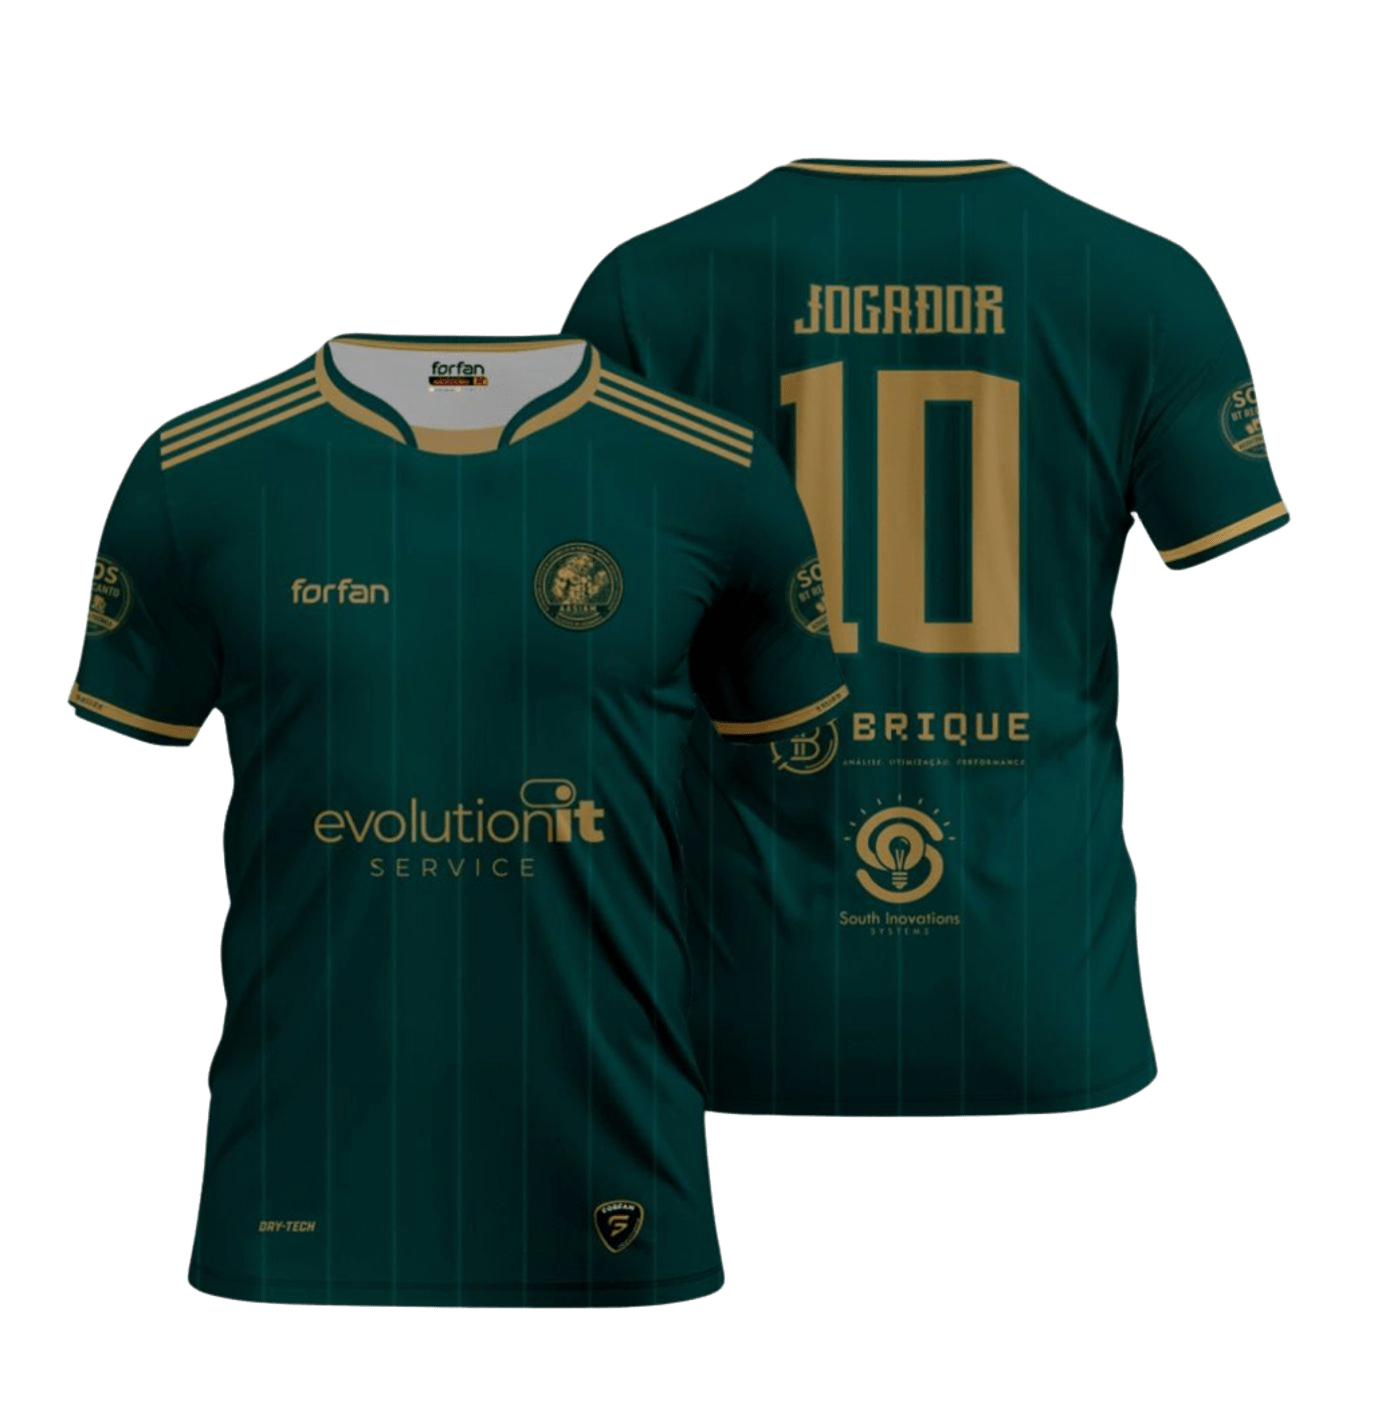
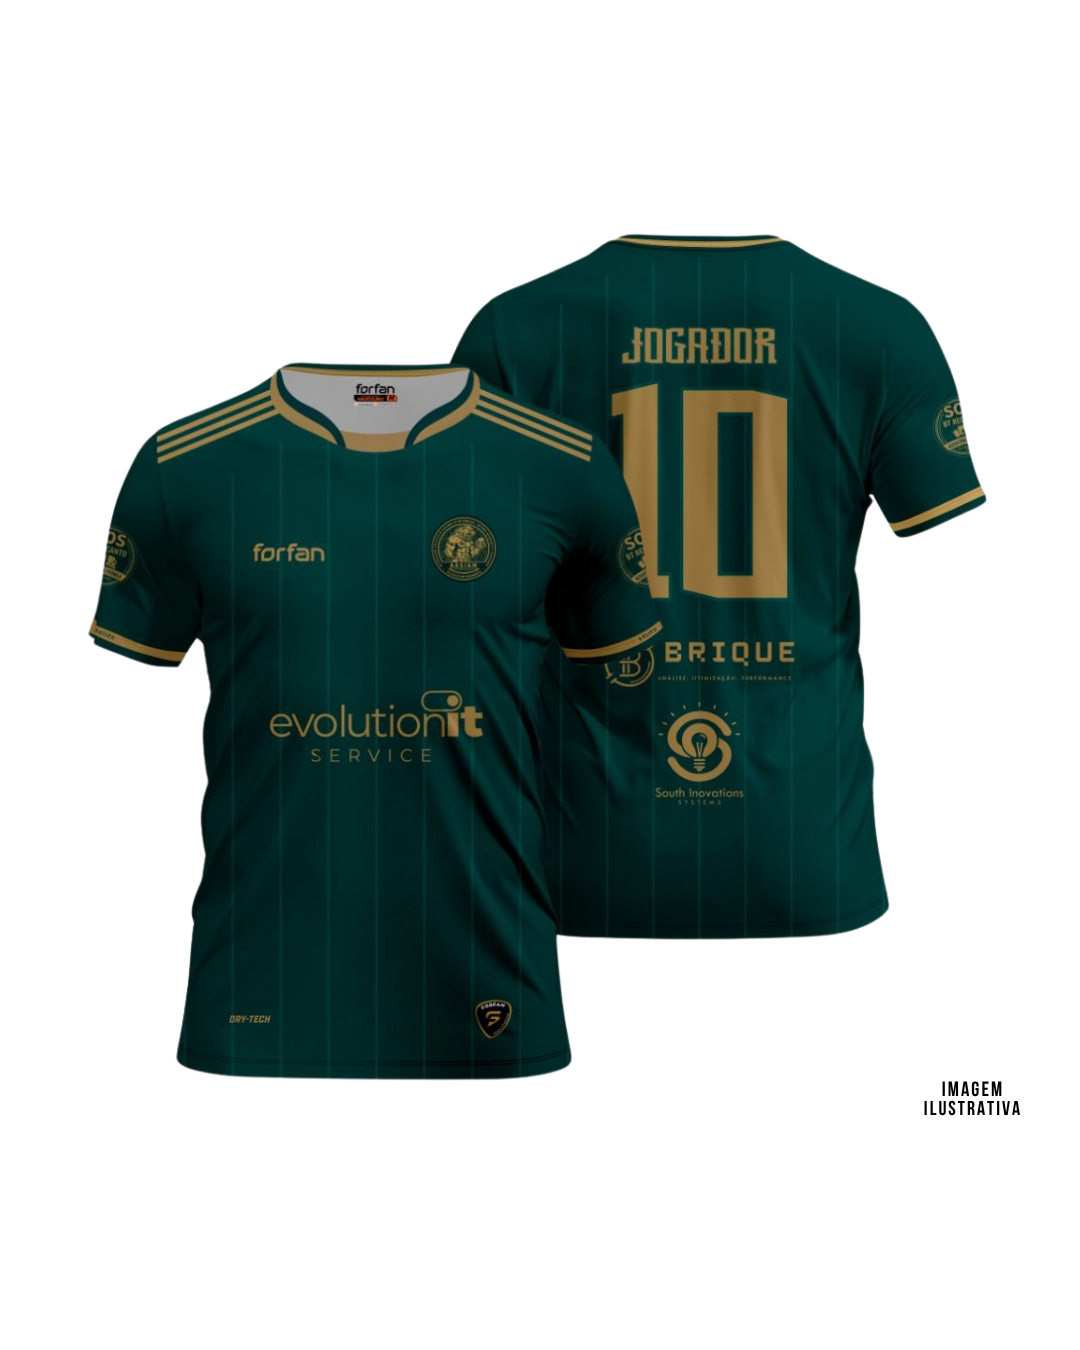
fix: ajusta imagens combo

diff --git a/frontend/src/shared/products.js b/frontend/src/shared/products.js
@@ -73,7 +73,7 @@ export const PRODUCTS = [
 		defaultVerdeSize: 'M',
 		defaultBegeSize: 'M',
 		images: [
-			'imgs/combo-essencial.png',
+			'imgs/combo01.png',
 			'/imgs/moletom-verde.png',
 			'/imgs/moletom-off-white.png',
 		],
@@ -95,7 +95,7 @@ export const PRODUCTS = [
 		defaultHoodieVariant: 'verde',
 		defaultHoodieSize: 'M',
 		images: [
-			'/imgs/combo-alcateia.png',
+			'/imgs/combo02.png',
 			'/imgs/moletom-verde.png',
 			'/imgs/moletom-off-white.png',
 			'/imgs/copo.png',
@@ -193,7 +193,7 @@ export const PRODUCTS = [
 		defaultHoodieSize: 'M',
 		defaultBackpackModel: 'campus',
 		images: [
-			'/imgs/combo-alpha.png',
+			'/imgs/combo03.png',
 			'/imgs/moletom-verde.png',
 			'/imgs/moletom-off-white.png',
 			'/imgs/copo.png',